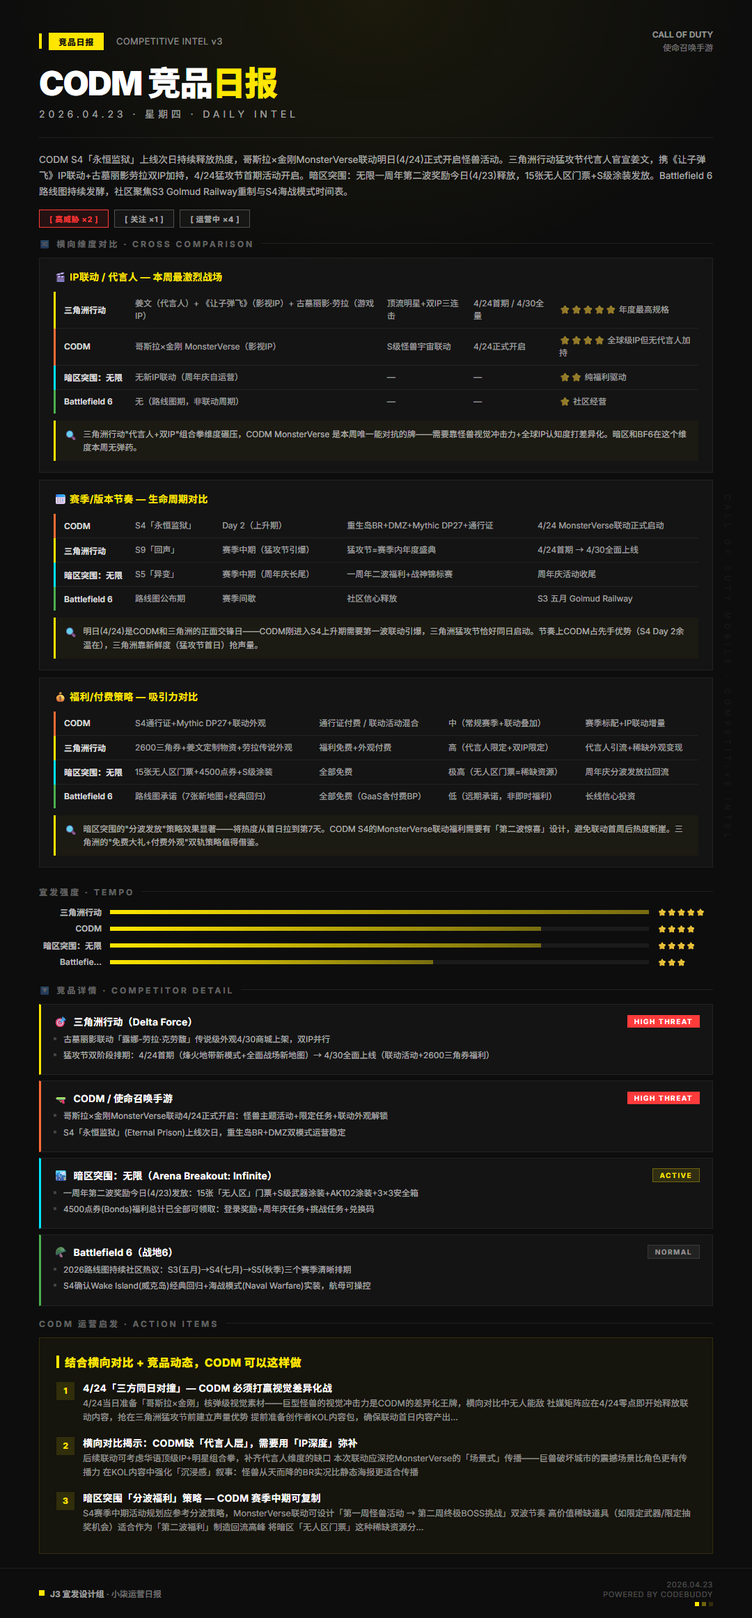
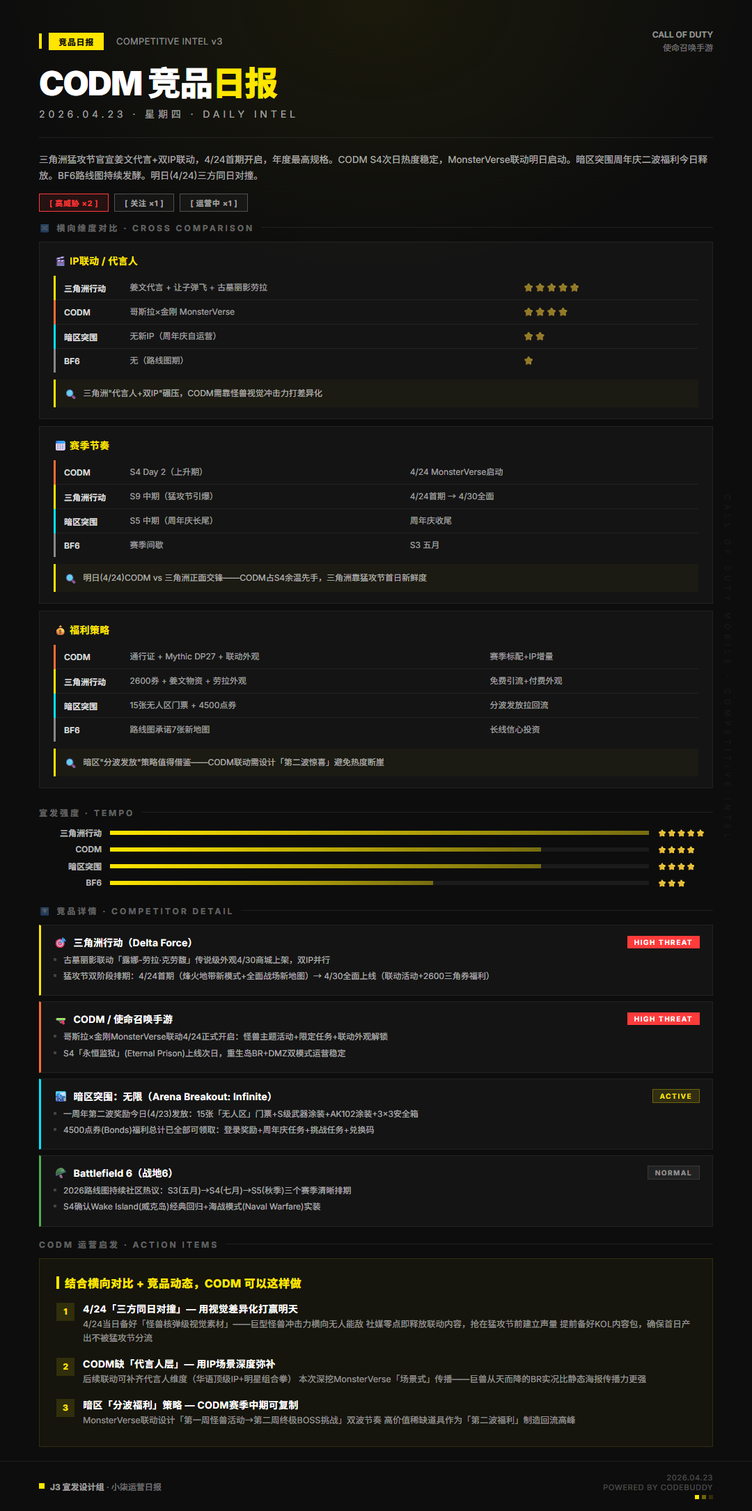
daily: CODM Competitive 20260423

diff --git a/docs/competitive-daily/competitive-daily-card-20260423.html b/docs/competitive-daily/competitive-daily-card-20260423.html
@@ -524,14 +524,14 @@
 
   <!-- 概览 -->
   <div class="overview">
-    <div class="overview-text">CODM S4「永恒监狱」上线次日持续释放热度，哥斯拉×金刚MonsterVerse联动明日(4/24)正式开启怪兽活动。三角洲行动猛攻节代言人官宣姜文，携《让子弹飞》IP联动+古墓丽影劳拉双IP加持，4/24猛攻节首期活动开启。暗区突围：无限一周年第二波奖励今日(4/23)释放，15张无人区门票+S级涂装发放。Battlefield 6 路线图持续发酵，社区聚焦S3 Golmud Railway重制与S4海战模式时间表。</div>
+    <div class="overview-text">三角洲猛攻节官宣姜文代言+双IP联动，4/24首期开启，年度最高规格。CODM S4次日热度稳定，MonsterVerse联动明日启动。暗区突围周年庆二波福利今日释放。BF6路线图持续发酵。明日(4/24)三方同日对撞。</div>
   </div>
 
   <!-- 威胁条 -->
   <div class="threat-bar">
     <span class="threat-pill threat-pill-high">[ 高威胁 ×2 ]</span>
     <span class="threat-pill threat-pill-mid">[ 关注 ×1 ]</span>
-    <span class="threat-pill threat-pill-mid">[ 运营中 ×4 ]</span>
+    <span class="threat-pill threat-pill-mid">[ 运营中 ×1 ]</span>
   </div>
 
   <!-- ═══ 横向维度对比 ═══ -->
@@ -540,72 +540,72 @@
     <div class="section-label">🔀 横向维度对比 · CROSS COMPARISON</div>
     
         <div class="horiz-dim">
-          <div class="horiz-dim-title">🎬 IP联动 / 代言人 — 本周最激烈战场</div>
+          <div class="horiz-dim-title">🎬 IP联动 / 代言人</div>
           <table class="horiz-table">
             <tr>
           <td class="horiz-name" style="border-left: 3px solid #FFE600;">三角洲行动</td>
-          <td class="horiz-cell">姜文（代言人）+ 《让子弹飞》（影视IP）+ 古墓丽影·劳拉（游戏IP）</td><td class="horiz-cell">顶流明星+双IP三连击</td><td class="horiz-cell">4/24首期 / 4/30全量</td><td class="horiz-cell">⭐⭐⭐⭐⭐ 年度最高规格</td>
+          <td class="horiz-cell">姜文代言 + 让子弹飞 + 古墓丽影劳拉</td><td class="horiz-cell">⭐⭐⭐⭐⭐</td>
         </tr><tr>
           <td class="horiz-name" style="border-left: 3px solid #FF6B35;">CODM</td>
-          <td class="horiz-cell">哥斯拉×金刚 MonsterVerse（影视IP）</td><td class="horiz-cell">S级怪兽宇宙联动</td><td class="horiz-cell">4/24正式开启</td><td class="horiz-cell">⭐⭐⭐⭐ 全球级IP但无代言人加持</td>
+          <td class="horiz-cell">哥斯拉×金刚 MonsterVerse</td><td class="horiz-cell">⭐⭐⭐⭐</td>
         </tr><tr>
-          <td class="horiz-name" style="border-left: 3px solid #00E5FF;">暗区突围：无限</td>
-          <td class="horiz-cell">无新IP联动（周年庆自运营）</td><td class="horiz-cell">—</td><td class="horiz-cell">—</td><td class="horiz-cell">⭐⭐ 纯福利驱动</td>
+          <td class="horiz-name" style="border-left: 3px solid #00E5FF;">暗区突围</td>
+          <td class="horiz-cell">无新IP（周年庆自运营）</td><td class="horiz-cell">⭐⭐</td>
         </tr><tr>
-          <td class="horiz-name" style="border-left: 3px solid #4CAF50;">Battlefield 6</td>
-          <td class="horiz-cell">无（路线图期，非联动周期）</td><td class="horiz-cell">—</td><td class="horiz-cell">—</td><td class="horiz-cell">⭐ 社区经营</td>
+          <td class="horiz-name" style="border-left: 3px solid #888;">BF6</td>
+          <td class="horiz-cell">无（路线图期）</td><td class="horiz-cell">⭐</td>
         </tr>
           </table>
           
         <div class="horiz-insight">
           <span class="horiz-insight-icon">🔍</span>
-          <span class="horiz-insight-text">三角洲行动"代言人+双IP"组合拳维度碾压，CODM MonsterVerse 是本周唯一能对抗的牌——需要靠怪兽视觉冲击力+全球IP认知度打差异化。暗区和BF6在这个维度本周无弹药。</span>
+          <span class="horiz-insight-text">三角洲"代言人+双IP"碾压，CODM需靠怪兽视觉冲击力打差异化</span>
         </div>
         </div>
         <div class="horiz-dim">
-          <div class="horiz-dim-title">📅 赛季/版本节奏 — 生命周期对比</div>
+          <div class="horiz-dim-title">📅 赛季节奏</div>
           <table class="horiz-table">
             <tr>
           <td class="horiz-name" style="border-left: 3px solid #FF6B35;">CODM</td>
-          <td class="horiz-cell">S4「永恒监狱」</td><td class="horiz-cell">Day 2（上升期）</td><td class="horiz-cell">重生岛BR+DMZ+Mythic DP27+通行证</td><td class="horiz-cell">4/24 MonsterVerse联动正式启动</td>
+          <td class="horiz-cell">S4 Day 2（上升期）</td><td class="horiz-cell">4/24 MonsterVerse启动</td>
         </tr><tr>
           <td class="horiz-name" style="border-left: 3px solid #FFE600;">三角洲行动</td>
-          <td class="horiz-cell">S9「回声」</td><td class="horiz-cell">赛季中期（猛攻节引爆）</td><td class="horiz-cell">猛攻节=赛季内年度盛典</td><td class="horiz-cell">4/24首期 → 4/30全面上线</td>
+          <td class="horiz-cell">S9 中期（猛攻节引爆）</td><td class="horiz-cell">4/24首期 → 4/30全面</td>
         </tr><tr>
-          <td class="horiz-name" style="border-left: 3px solid #00E5FF;">暗区突围：无限</td>
-          <td class="horiz-cell">S5「异变」</td><td class="horiz-cell">赛季中期（周年庆长尾）</td><td class="horiz-cell">一周年二波福利+战神锦标赛</td><td class="horiz-cell">周年庆活动收尾</td>
+          <td class="horiz-name" style="border-left: 3px solid #00E5FF;">暗区突围</td>
+          <td class="horiz-cell">S5 中期（周年庆长尾）</td><td class="horiz-cell">周年庆收尾</td>
         </tr><tr>
-          <td class="horiz-name" style="border-left: 3px solid #4CAF50;">Battlefield 6</td>
-          <td class="horiz-cell">路线图公布期</td><td class="horiz-cell">赛季间歇</td><td class="horiz-cell">社区信心释放</td><td class="horiz-cell">S3 五月 Golmud Railway</td>
+          <td class="horiz-name" style="border-left: 3px solid #888;">BF6</td>
+          <td class="horiz-cell">赛季间歇</td><td class="horiz-cell">S3 五月</td>
         </tr>
           </table>
           
         <div class="horiz-insight">
           <span class="horiz-insight-icon">🔍</span>
-          <span class="horiz-insight-text">明日(4/24)是CODM和三角洲的正面交锋日——CODM刚进入S4上升期需要第一波联动引爆，三角洲猛攻节恰好同日启动。节奏上CODM占先手优势（S4 Day 2余温在），三角洲靠新鲜度（猛攻节首日）抢声量。</span>
+          <span class="horiz-insight-text">明日(4/24)CODM vs 三角洲正面交锋——CODM占S4余温先手，三角洲靠猛攻节首日新鲜度</span>
         </div>
         </div>
         <div class="horiz-dim">
-          <div class="horiz-dim-title">💰 福利/付费策略 — 吸引力对比</div>
+          <div class="horiz-dim-title">💰 福利策略</div>
           <table class="horiz-table">
             <tr>
           <td class="horiz-name" style="border-left: 3px solid #FF6B35;">CODM</td>
-          <td class="horiz-cell">S4通行证+Mythic DP27+联动外观</td><td class="horiz-cell">通行证付费 / 联动活动混合</td><td class="horiz-cell">中（常规赛季+联动叠加）</td><td class="horiz-cell">赛季标配+IP联动增量</td>
+          <td class="horiz-cell">通行证 + Mythic DP27 + 联动外观</td><td class="horiz-cell">赛季标配+IP增量</td>
         </tr><tr>
           <td class="horiz-name" style="border-left: 3px solid #FFE600;">三角洲行动</td>
-          <td class="horiz-cell">2600三角券+姜文定制物资+劳拉传说外观</td><td class="horiz-cell">福利免费+外观付费</td><td class="horiz-cell">高（代言人限定+双IP限定）</td><td class="horiz-cell">代言人引流+稀缺外观变现</td>
+          <td class="horiz-cell">2600券 + 姜文物资 + 劳拉外观</td><td class="horiz-cell">免费引流+付费外观</td>
         </tr><tr>
-          <td class="horiz-name" style="border-left: 3px solid #00E5FF;">暗区突围：无限</td>
-          <td class="horiz-cell">15张无人区门票+4500点券+S级涂装</td><td class="horiz-cell">全部免费</td><td class="horiz-cell">极高（无人区门票=稀缺资源）</td><td class="horiz-cell">周年庆分波发放拉回流</td>
+          <td class="horiz-name" style="border-left: 3px solid #00E5FF;">暗区突围</td>
+          <td class="horiz-cell">15张无人区门票 + 4500点券</td><td class="horiz-cell">分波发放拉回流</td>
         </tr><tr>
-          <td class="horiz-name" style="border-left: 3px solid #4CAF50;">Battlefield 6</td>
-          <td class="horiz-cell">路线图承诺（7张新地图+经典回归）</td><td class="horiz-cell">全部免费（GaaS含付费BP）</td><td class="horiz-cell">低（远期承诺，非即时福利）</td><td class="horiz-cell">长线信心投资</td>
+          <td class="horiz-name" style="border-left: 3px solid #888;">BF6</td>
+          <td class="horiz-cell">路线图承诺7张新地图</td><td class="horiz-cell">长线信心投资</td>
         </tr>
           </table>
           
         <div class="horiz-insight">
           <span class="horiz-insight-icon">🔍</span>
-          <span class="horiz-insight-text">暗区突围的"分波发放"策略效果显著——将热度从首日拉到第7天。CODM S4的MonsterVerse联动福利需要有「第二波惊喜」设计，避免联动首周后热度断崖。三角洲的"免费大礼+付费外观"双轨策略值得借鉴。</span>
+          <span class="horiz-insight-text">暗区"分波发放"策略值得借鉴——CODM联动需设计「第二波惊喜」避免热度断崖</span>
         </div>
         </div>
   </div>
@@ -633,14 +633,14 @@
           <span class="tempo-stars">⭐⭐⭐⭐</span>
         </div>
         <div class="tempo-row">
-          <span class="tempo-name">暗区突围：无限</span>
+          <span class="tempo-name">暗区突围</span>
           <div class="tempo-bar-bg">
             <div class="tempo-bar-fill" style="width:80%"></div>
           </div>
           <span class="tempo-stars">⭐⭐⭐⭐</span>
         </div>
         <div class="tempo-row">
-          <span class="tempo-name">Battlefie…</span>
+          <span class="tempo-name">BF6</span>
           <div class="tempo-bar-bg">
             <div class="tempo-bar-fill" style="width:60%"></div>
           </div>
@@ -682,7 +682,7 @@
           <span class="comp-name">Battlefield 6（战地6）</span>
           <span class="comp-threat threat-normal">NORMAL</span>
         </div>
-        <div class="comp-highlight">2026路线图持续社区热议：S3(五月)→S4(七月)→S5(秋季)三个赛季清晰排期</div><div class="comp-highlight">S4确认Wake Island(威克岛)经典回归+海战模式(Naval Warfare)实装，航母可操控</div>
+        <div class="comp-highlight">2026路线图持续社区热议：S3(五月)→S4(七月)→S5(秋季)三个赛季清晰排期</div><div class="comp-highlight">S4确认Wake Island(威克岛)经典回归+海战模式(Naval Warfare)实装</div>
       </div>
     </div>
 
@@ -695,28 +695,26 @@
       <div class="insight-item">
         <span class="insight-num">1</span>
         <div class="insight-body">
-          <div class="insight-title">4/24「三方同日对撞」— CODM 必须打赢视觉差异化战</div>
-          <div class="insight-text">4/24当日准备「哥斯拉×金刚」核弹级视觉素材——巨型怪兽的视觉冲击力是CODM的差异化王牌，横向对比中无人能敌
-社媒矩阵应在4/24零点即开始释放联动内容，抢在三角洲猛攻节前建立声量优势
-提前准备创作者KOL内容包，确保联动首日内容产出…</div>
+          <div class="insight-title">4/24「三方同日对撞」— 用视觉差异化打赢明天</div>
+          <div class="insight-text">4/24当日备好「怪兽核弹级视觉素材」——巨型怪兽冲击力横向无人能敌
+社媒零点即释放联动内容，抢在猛攻节前建立声量
+提前备好KOL内容包，确保首日产出不被猛攻节分流</div>
         </div>
       </div>
       <div class="insight-item">
         <span class="insight-num">2</span>
         <div class="insight-body">
-          <div class="insight-title">横向对比揭示：CODM缺「代言人层」，需要用「IP深度」弥补</div>
-          <div class="insight-text">后续联动可考虑华语顶级IP+明星组合拳，补齐代言人维度的缺口
-本次联动应深挖MonsterVerse的「场景式」传播——巨兽破坏城市的震撼场景比角色更有传播力
-在KOL内容中强化「沉浸感」叙事：怪兽从天而降的BR实况比静态海报更适合传播</div>
+          <div class="insight-title">CODM缺「代言人层」— 用IP场景深度弥补</div>
+          <div class="insight-text">后续联动可补齐代言人维度（华语顶级IP+明星组合拳）
+本次深挖MonsterVerse「场景式」传播——巨兽从天而降的BR实况比静态海报传播力更强</div>
         </div>
       </div>
       <div class="insight-item">
         <span class="insight-num">3</span>
         <div class="insight-body">
-          <div class="insight-title">暗区突围「分波福利」策略 — CODM 赛季中期可复制</div>
-          <div class="insight-text">S4赛季中期活动规划应参考分波策略，MonsterVerse联动可设计「第一周怪兽活动 → 第二周终极BOSS挑战」双波节奏
-高价值稀缺道具（如限定武器/限定抽奖机会）适合作为「第二波福利」制造回流高峰
-将暗区「无人区门票」这种稀缺资源分…</div>
+          <div class="insight-title">暗区「分波福利」策略 — CODM赛季中期可复制</div>
+          <div class="insight-text">MonsterVerse联动设计「第一周怪兽活动→第二周终极BOSS挑战」双波节奏
+高价值稀缺道具作为「第二波福利」制造回流高峰</div>
         </div>
       </div>
       </div>

diff --git a/docs/competitive-daily/CODM_Competitive_Daily_20260423.md b/docs/competitive-daily/CODM_Competitive_Daily_20260423.md
@@ -2,69 +2,69 @@
 
 ## 📊 今日概览
 
-CODM S4「永恒监狱」上线次日持续释放热度，哥斯拉×金刚MonsterVerse联动明日(4/24)正式开启怪兽活动。三角洲行动猛攻节代言人官宣姜文，携《让子弹飞》IP联动+古墓丽影劳拉双IP加持，4/24猛攻节首期活动开启。暗区突围：无限一周年第二波奖励今日(4/23)释放，15张无人区门票+S级涂装发放。Battlefield 6 路线图持续发酵，社区聚焦S3 Golmud Railway重制与S4海战模式时间表。
+三角洲猛攻节官宣姜文代言+双IP联动，4/24首期开启，年度最高规格。CODM S4次日热度稳定，MonsterVerse联动明日启动。暗区突围周年庆二波福利今日释放。BF6路线图持续发酵。**明日(4/24)三方同日对撞。**
 
 📌 重点速览
-- 🔥🔥🔥 三角洲行动猛攻节官宣姜文代言 — 《让子弹飞》联动+古墓丽影劳拉双IP，4/24首期+4/30全面上线
-- 🔥🔥🔥 CODM S4上线次日 — 哥斯拉×金刚MonsterVerse联动4/24正式开启怪兽活动
-- 🔥🔥 暗区突围：无限周年庆第二波今日发放 — 15张无人区门票+4500点券+S级涂装
-- 🔥 Battlefield 6 路线图热议 — S3五月Golmud Railway+S4威克岛海战+服务器浏览器
+- 🔥🔥🔥 三角洲猛攻节：姜文代言+让子弹飞+古墓丽影双IP，4/24首期
+- 🔥🔥🔥 CODM：哥斯拉×金刚MonsterVerse联动4/24正式开启
+- 🔥🔥 暗区突围：周年庆二波今日发放，15张无人区门票+4500点券
+- 🔥 BF6：路线图热议，S3五月Golmud+S4威克岛海战
 
 ---
 
-## 🔀 横向维度对比（跨竞品同维度分析）
+## 🔀 横向维度对比
 
-### 🎬 IP联动 / 代言人 — 本周最激烈战场
+### 🎬 IP联动 / 代言人
 
-| 竞品 | IP/代言人 | 类型 | 上线时间 | 影响力评估 |
-|---|---|---|---|---|
-| 三角洲行动 | **姜文**（代言人）+ **《让子弹飞》**（影视IP）+ **古墓丽影·劳拉**（游戏IP） | 顶流明星+双IP三连击 | 4/24首期 / 4/30全量 | ⭐⭐⭐⭐⭐ 年度最高规格 |
-| CODM | **哥斯拉×金刚 MonsterVerse**（影视IP） | S级怪兽宇宙联动 | 4/24正式开启 | ⭐⭐⭐⭐ 全球级IP但无代言人加持 |
-| 暗区突围：无限 | 无新IP联动（周年庆自运营） | — | — | ⭐⭐ 纯福利驱动 |
-| Battlefield 6 | 无（路线图期，非联动周期） | — | — | ⭐ 社区经营 |
+| 竞品 | 核心牌面 | 影响力 |
+|---|---|---|
+| 三角洲行动 | 姜文代言 + 让子弹飞 + 古墓丽影劳拉 | ⭐⭐⭐⭐⭐ |
+| CODM | 哥斯拉×金刚 MonsterVerse | ⭐⭐⭐⭐ |
+| 暗区突围 | 无新IP（周年庆自运营） | ⭐⭐ |
+| BF6 | 无（路线图期） | ⭐ |
 
-**🔍 横向洞察**：三角洲行动"代言人+双IP"组合拳维度碾压，CODM MonsterVerse 是本周唯一能对抗的牌——需要靠怪兽视觉冲击力+全球IP认知度打差异化。暗区和BF6在这个维度本周无弹药。
-
----
-
-### 📅 赛季/版本节奏 — 生命周期对比
-
-| 竞品 | 当前赛季 | 赛季阶段 | 核心运营动作 | 下一个大节点 |
-|---|---|---|---|---|
-| CODM | S4「永恒监狱」 | **Day 2（上升期）** | 重生岛BR+DMZ+Mythic DP27+通行证 | 4/24 MonsterVerse联动正式启动 |
-| 三角洲行动 | S9「回声」 | **赛季中期（猛攻节引爆）** | 猛攻节=赛季内年度盛典 | 4/24首期 → 4/30全面上线 |
-| 暗区突围：无限 | S5「异变」 | **赛季中期（周年庆长尾）** | 一周年二波福利+战神锦标赛 | 周年庆活动收尾 |
-| Battlefield 6 | 路线图公布期 | **赛季间歇** | 社区信心释放 | S3 五月 Golmud Railway |
-
-**🔍 横向洞察**：明日(4/24)是CODM和三角洲的正面交锋日——CODM刚进入S4上升期需要第一波联动引爆，三角洲猛攻节恰好同日启动。节奏上CODM占先手优势（S4 Day 2余温在），三角洲靠新鲜度（猛攻节首日）抢声量。
+> 🔍 三角洲"代言人+双IP"碾压，CODM需靠**怪兽视觉冲击力**打差异化
 
 ---
 
-### 💰 福利/付费策略 — 吸引力对比
+### 📅 赛季节奏
 
-| 竞品 | 核心福利 | 免费/付费 | 稀缺度 | 策略类型 |
-|---|---|---|---|---|
-| CODM | S4通行证+Mythic DP27+联动外观 | 通行证付费 / 联动活动混合 | 中（常规赛季+联动叠加） | 赛季标配+IP联动增量 |
-| 三角洲行动 | 2600三角券+姜文定制物资+劳拉传说外观 | 福利免费+外观付费 | 高（代言人限定+双IP限定） | 代言人引流+稀缺外观变现 |
-| 暗区突围：无限 | 15张无人区门票+4500点券+S级涂装 | 全部免费 | 极高（无人区门票=稀缺资源） | 周年庆分波发放拉回流 |
-| Battlefield 6 | 路线图承诺（7张新地图+经典回归） | 全部免费（GaaS含付费BP） | 低（远期承诺，非即时福利） | 长线信心投资 |
+| 竞品 | 赛季/阶段 | 下一节点 |
+|---|---|---|
+| CODM | S4 Day 2（上升期） | 4/24 MonsterVerse启动 |
+| 三角洲行动 | S9 中期（猛攻节引爆） | 4/24首期 → 4/30全面 |
+| 暗区突围 | S5 中期（周年庆长尾） | 周年庆收尾 |
+| BF6 | 赛季间歇 | S3 五月 |
 
-**🔍 横向洞察**：暗区突围的"分波发放"策略效果显著——将热度从首日拉到第7天。CODM S4的MonsterVerse联动福利需要有「第二波惊喜」设计，避免联动首周后热度断崖。三角洲的"免费大礼+付费外观"双轨策略值得借鉴。
-
----
-
-## 📊 宣发强度对比（本周）
-
-| 竞品 | 宣发事件 | 强度 | 核心手段 |
-|---|---|---|---|
-| 三角洲行动 | 猛攻节姜文代言+让子弹飞联动+古墓丽影双IP+猛攻节明日开 | ⭐⭐⭐⭐⭐ | 顶级代言人+双IP+年度盛典 |
-| CODM | S4次日运营+哥斯拉金刚明日开启+重生岛+DMZ | ⭐⭐⭐⭐ | S级IP联动+经典地图+模式创新 |
-| 暗区突围：无限 | 周年庆二波今日发放+4500点券+无人区门票+战神锦标赛 | ⭐⭐⭐⭐ | 周年庆福利高峰+赛事 |
-| Battlefield 6 | 路线图热议+威克岛+海战+服务器浏览器 | ⭐⭐⭐ | 社区信心+经典重制+长线承诺 |
+> 🔍 明日(4/24)CODM vs 三角洲正面交锋——CODM占S4余温先手，三角洲靠猛攻节首日新鲜度
 
 ---
 
-## 🔽 纵向竞品详情
+### 💰 福利策略
+
+| 竞品 | 核心福利 | 策略 |
+|---|---|---|
+| CODM | 通行证 + Mythic DP27 + 联动外观 | 赛季标配+IP增量 |
+| 三角洲行动 | 2600券 + 姜文物资 + 劳拉外观 | 免费引流+付费外观 |
+| 暗区突围 | 15张无人区门票 + 4500点券 | 分波发放拉回流 |
+| BF6 | 路线图承诺7张新地图 | 长线信心投资 |
+
+> 🔍 暗区"分波发放"策略值得借鉴——CODM联动需设计「第二波惊喜」避免热度断崖
+
+---
+
+## 📊 宣发强度对比
+
+| 竞品 | 强度 | 核心手段 |
+|---|---|---|
+| 三角洲行动 | ⭐⭐⭐⭐⭐ | 顶级代言人+双IP+年度盛典 |
+| CODM | ⭐⭐⭐⭐ | S级IP联动+经典地图+模式创新 |
+| 暗区突围 | ⭐⭐⭐⭐ | 周年庆福利高峰+赛事 |
+| BF6 | ⭐⭐⭐ | 社区信心+经典重制 |
+
+---
+
+## 🔽 竞品详情
 
 ### 🎯 三角洲行动（Delta Force）
 
@@ -75,10 +75,9 @@ CODM S4「永恒监狱」上线次日持续释放热度，哥斯拉×金刚Monst
 - 🔥🔥 猛攻节双阶段排期：4/24首期（烽火地带新模式+全面战场新地图）→ 4/30全面上线（联动活动+2600三角券福利）
 - 🔥🔥 古墓丽影联动「露娜-劳拉·克劳馥」传说级外观4/30商城上架，双IP并行
 - 🔥 乌鲁鲁联动皮肤曝光（疑似猛攻节限定），社区高度期待
-- 「回声」赛季第一周运营稳定，新干员Morse+M82+丧尸模式持续吸引
 - 全面战场国际邀请赛4/27报名开放，吴彦祖联动传说外观「飞虎-威龙」4/29上线
 
-宣发节奏：「顶级代言人+双IP联动+猛攻节福利+电竞」四线引爆，年度最高密度宣发周
+宣发节奏：代言人+双IP+猛攻节福利+电竞四线引爆，年度最高密度宣发周
 
 来源:
 - https://www.sohu.com/a/1013123316_122575551
@@ -96,9 +95,8 @@ CODM S4「永恒监狱」上线次日持续释放热度，哥斯拉×金刚Monst
 - 🔥 Mythic DP27 LMG首日表现引社区讨论，通行证4款新干员外观持续曝光
 - 全新BR职业Toxic Overload毒气战术上线首日社区反馈积极
 - DMZ：侦察模式重生岛作为第二张提取地图持续吸引新老玩家
-- 创作者内容矩阵持续产出S4首发实况+哥斯拉预告内容
 
-宣发节奏：「S4首发热度释放+联动预热→4/24怪兽活动正式启动」蓄势待发
+宣发节奏：S4首发热度释放+联动预热→4/24怪兽活动正式启动
 
 来源:
 - https://www.callofduty.com/blog/2026/04/call-of-duty-mobile-season-4-2026-eternal-prison
@@ -114,9 +112,8 @@ CODM S4「永恒监狱」上线次日持续释放热度，哥斯拉×金刚Monst
 - 🔥 4500点券(Bonds)福利总计已全部可领取：登录奖励+周年庆任务+挑战任务+兑换码
 - 混沌质概率UP活动持续中(4/21起)，红色品质收藏品产出提高
 - 战神锦标赛TV Station电视台地图专项赛事进行中
-- S5「异变」赛季稳定运营，新枪械改装码192/FAMAS分类系统上线
 
-宣发节奏：「周年庆二波福利高峰+赛事+持续运营」最大化周年庆长尾热度
+宣发节奏：周年庆二波福利高峰+赛事+持续运营
 
 来源:
 - https://aqtwwx.qq.com/web202501/newsdetail.html?newsid=18767505
@@ -129,12 +126,11 @@ CODM S4「永恒监狱」上线次日持续释放热度，哥斯拉×金刚Monst
 **威胁等级：🟢 低 — 端游赛道，路线图社区讨论期**
 
 - 🔥 2026路线图持续社区热议：S3(五月)→S4(七月)→S5(秋季)三个赛季清晰排期
-- 🔥 S4确认Wake Island(威克岛)经典回归+海战模式(Naval Warfare)实装，航母可操控
+- 🔥 S4确认Wake Island(威克岛)经典回归+海战模式(Naval Warfare)实装
 - S3五月上线Golmud Railway重制+服务器浏览器+REDSEC天梯排位
 - 全年7张新地图承诺（含3张经典重制），社区信心大幅提振
-- Ranked Play+近战语音+观战模式+战队系统等社区呼声功能逐步排期
 
-宣发节奏：「路线图信心释放+经典地图回归+海战革新」长线社区运营
+宣发节奏：路线图信心释放+经典地图回归+海战革新
 
 来源:
 - https://www.ea.com/games/battlefield/battlefield-6/seasons/battlefield-2026-roadmap
@@ -144,29 +140,27 @@ CODM S4「永恒监狱」上线次日持续释放热度，哥斯拉×金刚Monst
 
 ## 💡 运营洞察
 
-### 1. 4/24「三方同日对撞」— CODM 必须打赢视觉差异化战
+### 1. 4/24「三方同日对撞」— 用视觉差异化打赢明天
 
-明日将出现三角洲猛攻节首期 vs CODM哥斯拉联动 vs 暗区突围周年庆余热的三方同日竞争。横向对比来看，三角洲在代言人/IP维度占绝对优势（姜文+双IP），CODM需要在**视觉冲击力**这个维度打出差异——MonsterVerse的巨型怪兽是其他竞品无法复制的视觉资产。
-
-**对 CODM 的启示**
-- 4/24当日准备「哥斯拉×金刚」核弹级视觉素材——巨型怪兽的视觉冲击力是CODM的差异化王牌，横向对比中无人能敌
-- 社媒矩阵应在4/24零点即开始释放联动内容，抢在三角洲猛攻节前建立声量优势
-- 提前准备创作者KOL内容包，确保联动首日内容产出不被猛攻节分流
-
-### 2. 横向对比揭示：CODM缺「代言人层」，需要用「IP深度」弥补
-
-横向看IP/代言人维度：三角洲有姜文（全民级代言人），暗区有周年庆福利锚定，CODM 仅有IP联动缺少人物锚点。MonsterVerse 是S级IP但缺少「人格化」传播点——哥斯拉没有台词能出圈。
+明日三角洲猛攻节 vs CODM哥斯拉联动 vs 暗区周年庆余热三方对撞。横向看三角洲在代言人/IP维度碾压，但MonsterVerse的巨型怪兽是**唯一不可替代的视觉资产**。
 
 **对 CODM 的启示**
-- 后续联动可考虑华语顶级IP+明星组合拳，补齐代言人维度的缺口
-- 本次联动应深挖MonsterVerse的「场景式」传播——巨兽破坏城市的震撼场景比角色更有传播力
-- 在KOL内容中强化「沉浸感」叙事：怪兽从天而降的BR实况比静态海报更适合传播
+- 4/24当日备好「怪兽核弹级视觉素材」——巨型怪兽冲击力横向无人能敌
+- 社媒零点即释放联动内容，抢在猛攻节前建立声量
+- 提前备好KOL内容包，确保首日产出不被猛攻节分流
 
-### 3. 暗区突围「分波福利」策略 — CODM 赛季中期可复制
+### 2. CODM缺「代言人层」— 用IP场景深度弥补
 
-纵向看暗区突围的周年庆运营：4/17首波→4/23二波，7天分两波精准拉升登录曲线。横向对比CODM通常是赛季首日一波放完，中期活跃容易断崖。
+三角洲有姜文（全民代言人），暗区有周年庆福利锚定，CODM仅有IP联动缺少人物锚点。哥斯拉没台词能出圈，但「巨兽破坏城市」的沉浸场景比角色更有传播力。
 
 **对 CODM 的启示**
-- S4赛季中期活动规划应参考分波策略，MonsterVerse联动可设计「第一周怪兽活动 → 第二周终极BOSS挑战」双波节奏
-- 高价值稀缺道具（如限定武器/限定抽奖机会）适合作为「第二波福利」制造回流高峰
-- 将暗区「无人区门票」这种稀缺资源分波发放的思路应用到CODM的限定内容解锁节奏中
+- 后续联动可补齐代言人维度（华语顶级IP+明星组合拳）
+- 本次深挖MonsterVerse「场景式」传播——巨兽从天而降的BR实况比静态海报传播力更强
+
+### 3. 暗区「分波福利」策略 — CODM赛季中期可复制
+
+暗区周年庆4/17首波→4/23二波，7天分两波精准拉升登录曲线。CODM通常赛季首日一波放完，中期活跃容易断崖。
+
+**对 CODM 的启示**
+- MonsterVerse联动设计「第一周怪兽活动→第二周终极BOSS挑战」双波节奏
+- 高价值稀缺道具作为「第二波福利」制造回流高峰
